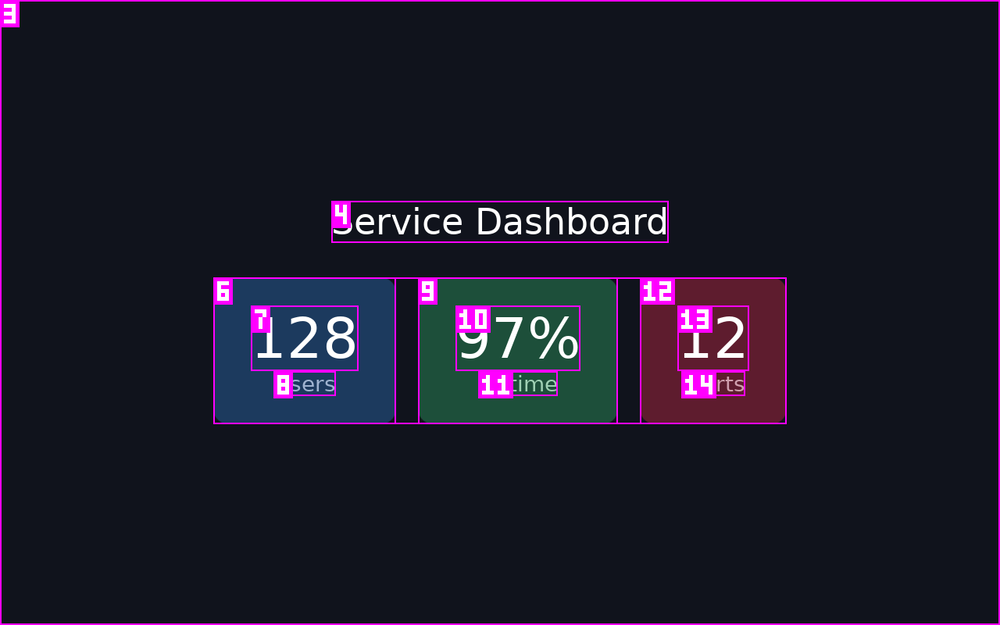
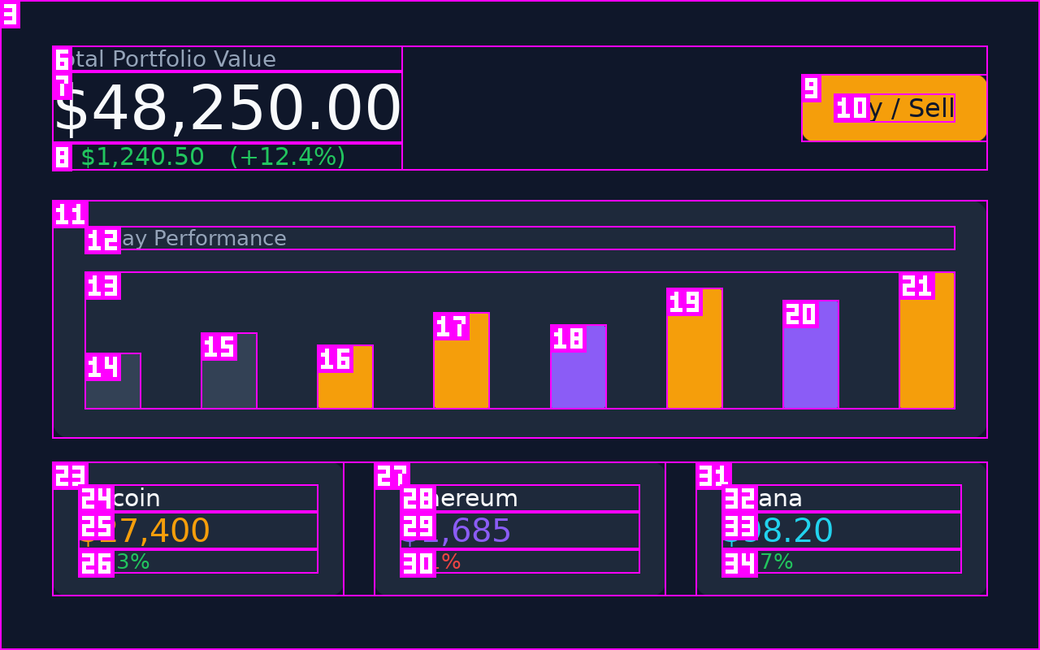
docs(readme): replace demo renders with 4 fancy, diverse showcase screens
The old hero (sign-in / dashboard / now-playing) was flat single-colour and
monotone. Regenerated the media from real renders designed with vibrant,
product-appropriate palettes (via the UI/UX Pro Max design skill) — within
what the DALi runtime actually renders (solid fills, corner radius, type,
shape-based data-viz; no photos/gradients/shadows):

- hero.gif now cycles four diverse screens: a fintech crypto dashboard (bar
  chart + bento), a fitness tracker (orange hero + progress + stat cards), a
  music player (vibrant equalizer + controls), and a light-mode sales
  analytics dashboard (KPIs + bar chart). Three dark + one light, for range.
- "What it does" static is now the crypto dashboard.
- The Set-of-Mark `--overlay` demo is regenerated on that dashboard (30+ boxed,
  numbered nodes incl. each chart bar) — a far richer image→tree showcase.
- Added the four as reproducible samples under samples/showcase/ (they ship in
  the package), and linked them from the hero caption. EN + KO captions updated.

Media stay out of the npm `files` allowlist (package is still ~99 kB).

diff --git a/samples/showcase/crypto.preview.dali.cpp b/samples/showcase/crypto.preview.dali.cpp
@@ -1,0 +1,85 @@
+// Crypto portfolio — fintech palette: gold #F59E0B, purple #8B5CF6, dark #0F172A
+FlexLayout root = FlexLayout::New();
+root.SetDirection(FlexDirection::COLUMN);
+root.SetRequestedWidth(MATCH_PARENT);
+root.SetRequestedHeight(MATCH_PARENT);
+root.SetBackgroundColor(UiColor(0x0F172A));
+root.SetPadding(Extents(64, 64, 56, 56));
+
+// ---- header ----
+FlexLayout header = FlexLayout::New();
+header.SetDirection(FlexDirection::ROW);
+header.SetJustifyContent(FlexJustify::SPACE_BETWEEN);
+header.SetAlignItems(FlexAlign::CENTER);
+header.SetRequestedWidth(MATCH_PARENT);
+header.SetMargin(Extents(0, 0, 0, 36));
+FlexLayout hl = FlexLayout::New();
+hl.SetDirection(FlexDirection::COLUMN);
+Label t1 = Label::New("Total Portfolio Value"); t1.SetFontSize(28); t1.SetTextColor(UiColor(0x94A3B8));
+Label t2 = Label::New("$48,250.00"); t2.SetFontSize(76); t2.SetTextColor(UiColor(0xF8FAFC));
+Label t3 = Label::New("+ $1,240.50   (+12.4%)"); t3.SetFontSize(30); t3.SetTextColor(UiColor(0x22C55E));
+hl.AddChildren({ t1, t2, t3 });
+FlexLayout cta = FlexLayout::New();
+cta.SetJustifyContent(FlexJustify::CENTER); cta.SetAlignItems(FlexAlign::CENTER);
+cta.SetBackgroundColor(UiColor(0xF59E0B)); cta.SetCornerRadius(18.0f);
+cta.SetPadding(Extents(40, 40, 24, 24));
+Label ctal = Label::New("Buy / Sell"); ctal.SetFontSize(32); ctal.SetTextColor(UiColor(0x0F172A));
+cta.AddChildren({ ctal });
+header.AddChildren({ hl, cta });
+
+// ---- chart card (bar chart) ----
+FlexLayout chart = FlexLayout::New();
+chart.SetDirection(FlexDirection::COLUMN);
+chart.SetBackgroundColor(UiColor(0x1E293B)); chart.SetCornerRadius(24.0f);
+chart.SetPadding(Extents(40, 40, 32, 36));
+chart.SetRequestedWidth(MATCH_PARENT);
+chart.SetMargin(Extents(0, 0, 0, 28));
+Label cl = Label::New("7-Day Performance"); cl.SetFontSize(26); cl.SetTextColor(UiColor(0x94A3B8));
+cl.SetMargin(Extents(0, 0, 0, 26));
+FlexLayout bars = FlexLayout::New();
+bars.SetDirection(FlexDirection::ROW);
+bars.SetAlignItems(FlexAlign::FLEX_END);
+bars.SetJustifyContent(FlexJustify::SPACE_BETWEEN);
+bars.SetRequestedWidth(MATCH_PARENT);
+bars.SetRequestedHeight(170.0f);
+View g1 = View::New(); g1.SetBackgroundColor(UiColor(0x334155)); g1.SetCornerRadius(8.0f); g1.SetRequestedWidth(70.0f); g1.SetRequestedHeight(70.0f);
+View g2 = View::New(); g2.SetBackgroundColor(UiColor(0x334155)); g2.SetCornerRadius(8.0f); g2.SetRequestedWidth(70.0f); g2.SetRequestedHeight(95.0f);
+View g3 = View::New(); g3.SetBackgroundColor(UiColor(0xF59E0B)); g3.SetCornerRadius(8.0f); g3.SetRequestedWidth(70.0f); g3.SetRequestedHeight(80.0f);
+View g4 = View::New(); g4.SetBackgroundColor(UiColor(0xF59E0B)); g4.SetCornerRadius(8.0f); g4.SetRequestedWidth(70.0f); g4.SetRequestedHeight(120.0f);
+View g5 = View::New(); g5.SetBackgroundColor(UiColor(0x8B5CF6)); g5.SetCornerRadius(8.0f); g5.SetRequestedWidth(70.0f); g5.SetRequestedHeight(105.0f);
+View g6 = View::New(); g6.SetBackgroundColor(UiColor(0xF59E0B)); g6.SetCornerRadius(8.0f); g6.SetRequestedWidth(70.0f); g6.SetRequestedHeight(150.0f);
+View g7 = View::New(); g7.SetBackgroundColor(UiColor(0x8B5CF6)); g7.SetCornerRadius(8.0f); g7.SetRequestedWidth(70.0f); g7.SetRequestedHeight(135.0f);
+View g8 = View::New(); g8.SetBackgroundColor(UiColor(0xF59E0B)); g8.SetCornerRadius(8.0f); g8.SetRequestedWidth(70.0f); g8.SetRequestedHeight(170.0f);
+bars.AddChildren({ g1, g2, g3, g4, g5, g6, g7, g8 });
+chart.AddChildren({ cl, bars });
+
+// ---- holdings (3 coin cards) ----
+FlexLayout coins = FlexLayout::New();
+coins.SetDirection(FlexDirection::ROW);
+coins.SetJustifyContent(FlexJustify::SPACE_BETWEEN);
+coins.SetRequestedWidth(MATCH_PARENT);
+FlexLayout c1 = FlexLayout::New();
+c1.SetDirection(FlexDirection::COLUMN); c1.SetBackgroundColor(UiColor(0x1E293B)); c1.SetCornerRadius(20.0f);
+c1.SetPadding(Extents(32, 32, 28, 28)); c1.SetRequestedWidth(360.0f); c1.SetMargin(Extents(0, 14, 0, 0));
+Label c1n = Label::New("Bitcoin"); c1n.SetFontSize(30); c1n.SetTextColor(UiColor(0xF8FAFC));
+Label c1p = Label::New("$27,400"); c1p.SetFontSize(40); c1p.SetTextColor(UiColor(0xF59E0B));
+Label c1c = Label::New("+2.3%"); c1c.SetFontSize(26); c1c.SetTextColor(UiColor(0x22C55E));
+c1.AddChildren({ c1n, c1p, c1c });
+FlexLayout c2 = FlexLayout::New();
+c2.SetDirection(FlexDirection::COLUMN); c2.SetBackgroundColor(UiColor(0x1E293B)); c2.SetCornerRadius(20.0f);
+c2.SetPadding(Extents(32, 32, 28, 28)); c2.SetRequestedWidth(360.0f); c2.SetMargin(Extents(14, 14, 0, 0));
+Label c2n = Label::New("Ethereum"); c2n.SetFontSize(30); c2n.SetTextColor(UiColor(0xF8FAFC));
+Label c2p = Label::New("$1,685"); c2p.SetFontSize(40); c2p.SetTextColor(UiColor(0x8B5CF6));
+Label c2c = Label::New("-1.1%"); c2c.SetFontSize(26); c2c.SetTextColor(UiColor(0xEF4444));
+c2.AddChildren({ c2n, c2p, c2c });
+FlexLayout c3 = FlexLayout::New();
+c3.SetDirection(FlexDirection::COLUMN); c3.SetBackgroundColor(UiColor(0x1E293B)); c3.SetCornerRadius(20.0f);
+c3.SetPadding(Extents(32, 32, 28, 28)); c3.SetRequestedWidth(360.0f); c3.SetMargin(Extents(14, 0, 0, 0));
+Label c3n = Label::New("Solana"); c3n.SetFontSize(30); c3n.SetTextColor(UiColor(0xF8FAFC));
+Label c3p = Label::New("$98.20"); c3p.SetFontSize(40); c3p.SetTextColor(UiColor(0x22D3EE));
+Label c3c = Label::New("+5.7%"); c3c.SetFontSize(26); c3c.SetTextColor(UiColor(0x22C55E));
+c3.AddChildren({ c3n, c3p, c3c });
+coins.AddChildren({ c1, c2, c3 });
+
+root.AddChildren({ header, chart, coins });
+return root;

diff --git a/samples/showcase/fitness.preview.dali.cpp b/samples/showcase/fitness.preview.dali.cpp
@@ -1,0 +1,62 @@
+FlexLayout root = FlexLayout::New();
+root.SetDirection(FlexDirection::COLUMN);
+root.SetRequestedWidth(MATCH_PARENT);
+root.SetRequestedHeight(MATCH_PARENT);
+root.SetBackgroundColor(UiColor(0x111827));
+root.SetPadding(Extents(64, 64, 56, 56));
+
+FlexLayout head = FlexLayout::New();
+head.SetDirection(FlexDirection::ROW); head.SetJustifyContent(FlexJustify::SPACE_BETWEEN);
+head.SetAlignItems(FlexAlign::FLEX_END); head.SetRequestedWidth(MATCH_PARENT); head.SetMargin(Extents(0,0,0,36));
+FlexLayout hc = FlexLayout::New(); hc.SetDirection(FlexDirection::COLUMN);
+Label h1 = Label::New("ACTIVITY"); h1.SetFontSize(26); h1.SetTextColor(UiColor(0xF97316));
+Label h2 = Label::New("Good morning, Alex"); h2.SetFontSize(48); h2.SetTextColor(UiColor(0xF8FAFC));
+hc.AddChildren({ h1, h2 });
+Label hd = Label::New("Tue, Jun 30"); hd.SetFontSize(28); hd.SetTextColor(UiColor(0x9CA3AF));
+head.AddChildren({ hc, hd });
+
+// hero: big steps + progress
+FlexLayout hero = FlexLayout::New();
+hero.SetDirection(FlexDirection::COLUMN); hero.SetBackgroundColor(UiColor(0xF97316));
+hero.SetCornerRadius(28.0f); hero.SetPadding(Extents(48, 48, 40, 44));
+hero.SetRequestedWidth(MATCH_PARENT); hero.SetMargin(Extents(0,0,0,28));
+Label hs1 = Label::New("STEPS TODAY"); hs1.SetFontSize(26); hs1.SetTextColor(UiColor(0x7C2D12));
+FlexLayout hr = FlexLayout::New(); hr.SetDirection(FlexDirection::ROW); hr.SetAlignItems(FlexAlign::FLEX_END);
+Label hs2 = Label::New("8,412"); hs2.SetFontSize(96); hs2.SetTextColor(UiColor(0xFFFFFF));
+Label hs3 = Label::New("  / 10,000  •  84%"); hs3.SetFontSize(34); hs3.SetTextColor(UiColor(0xFFEDD5));
+hr.AddChildren({ hs2, hs3 });
+View track = View::New(); track.SetBackgroundColor(UiColor(0xC2410C)); track.SetCornerRadius(10.0f);
+track.SetRequestedWidth(MATCH_PARENT); track.SetRequestedHeight(20.0f); track.SetMargin(Extents(0,0,20,0));
+View fill = View::New(); fill.SetBackgroundColor(UiColor(0xFFFFFF)); fill.SetCornerRadius(10.0f);
+fill.SetRequestedWidth(900.0f); fill.SetRequestedHeight(20.0f);
+track.AddChildren({ fill });
+hero.AddChildren({ hs1, hr, track });
+
+// 3 stat blocks
+FlexLayout row = FlexLayout::New(); row.SetDirection(FlexDirection::ROW);
+row.SetJustifyContent(FlexJustify::SPACE_BETWEEN); row.SetRequestedWidth(MATCH_PARENT);
+View s1 = View::New(); s1.SetBackgroundColor(UiColor(0x1F2937)); s1.SetCornerRadius(20.0f);
+s1.SetRequestedWidth(360.0f); s1.SetRequestedHeight(190.0f); s1.SetMargin(Extents(0,14,0,0));
+FlexLayout s1c = FlexLayout::New(); s1c.SetDirection(FlexDirection::COLUMN); s1c.SetPadding(Extents(34,34,30,30));
+Label s1a = Label::New("CALORIES"); s1a.SetFontSize(24); s1a.SetTextColor(UiColor(0x9CA3AF));
+Label s1b = Label::New("540"); s1b.SetFontSize(56); s1b.SetTextColor(UiColor(0xF97316));
+Label s1d = Label::New("kcal burned"); s1d.SetFontSize(24); s1d.SetTextColor(UiColor(0x6B7280));
+s1c.AddChildren({ s1a, s1b, s1d }); s1.AddChildren({ s1c });
+View s2 = View::New(); s2.SetBackgroundColor(UiColor(0x1F2937)); s2.SetCornerRadius(20.0f);
+s2.SetRequestedWidth(360.0f); s2.SetRequestedHeight(190.0f); s2.SetMargin(Extents(14,14,0,0));
+FlexLayout s2c = FlexLayout::New(); s2c.SetDirection(FlexDirection::COLUMN); s2c.SetPadding(Extents(34,34,30,30));
+Label s2a = Label::New("DISTANCE"); s2a.SetFontSize(24); s2a.SetTextColor(UiColor(0x9CA3AF));
+Label s2b = Label::New("5.2"); s2b.SetFontSize(56); s2b.SetTextColor(UiColor(0x38BDF8));
+Label s2d = Label::New("km walked"); s2d.SetFontSize(24); s2d.SetTextColor(UiColor(0x6B7280));
+s2c.AddChildren({ s2a, s2b, s2d }); s2.AddChildren({ s2c });
+View s3 = View::New(); s3.SetBackgroundColor(UiColor(0x1F2937)); s3.SetCornerRadius(20.0f);
+s3.SetRequestedWidth(360.0f); s3.SetRequestedHeight(190.0f); s3.SetMargin(Extents(14,0,0,0));
+FlexLayout s3c = FlexLayout::New(); s3c.SetDirection(FlexDirection::COLUMN); s3c.SetPadding(Extents(34,34,30,30));
+Label s3a = Label::New("ACTIVE"); s3a.SetFontSize(24); s3a.SetTextColor(UiColor(0x9CA3AF));
+Label s3b = Label::New("47"); s3b.SetFontSize(56); s3b.SetTextColor(UiColor(0x34D399));
+Label s3d = Label::New("minutes"); s3d.SetFontSize(24); s3d.SetTextColor(UiColor(0x6B7280));
+s3c.AddChildren({ s3a, s3b, s3d }); s3.AddChildren({ s3c });
+row.AddChildren({ s1, s2, s3 });
+
+root.AddChildren({ head, hero, row });
+return root;

diff --git a/samples/showcase/analytics.preview.dali.cpp b/samples/showcase/analytics.preview.dali.cpp
@@ -1,0 +1,61 @@
+// Light SaaS analytics — slate/indigo, white cards on light bg
+FlexLayout root = FlexLayout::New();
+root.SetDirection(FlexDirection::COLUMN);
+root.SetRequestedWidth(MATCH_PARENT); root.SetRequestedHeight(MATCH_PARENT);
+root.SetBackgroundColor(UiColor(0xEEF2F7));
+root.SetPadding(Extents(64, 64, 56, 56));
+
+FlexLayout head = FlexLayout::New(); head.SetDirection(FlexDirection::ROW);
+head.SetJustifyContent(FlexJustify::SPACE_BETWEEN); head.SetAlignItems(FlexAlign::CENTER);
+head.SetRequestedWidth(MATCH_PARENT); head.SetMargin(Extents(0,0,0,36));
+FlexLayout hc = FlexLayout::New(); hc.SetDirection(FlexDirection::COLUMN);
+Label h0 = Label::New("SALES OVERVIEW"); h0.SetFontSize(24); h0.SetTextColor(UiColor(0x6366F1));
+Label h1 = Label::New("Good afternoon, Sam"); h1.SetFontSize(48); h1.SetTextColor(UiColor(0x0F172A));
+hc.AddChildren({ h0, h1 });
+FlexLayout pill = FlexLayout::New(); pill.SetJustifyContent(FlexJustify::CENTER); pill.SetAlignItems(FlexAlign::CENTER);
+pill.SetBackgroundColor(UiColor(0xFFFFFF)); pill.SetCornerRadius(14.0f); pill.SetPadding(Extents(32,32,20,20));
+Label pl = Label::New("This Month  ▾"); pl.SetFontSize(28); pl.SetTextColor(UiColor(0x334155));
+pill.AddChildren({ pl });
+head.AddChildren({ hc, pill });
+
+// KPI row
+FlexLayout kpis = FlexLayout::New(); kpis.SetDirection(FlexDirection::ROW);
+kpis.SetJustifyContent(FlexJustify::SPACE_BETWEEN); kpis.SetRequestedWidth(MATCH_PARENT); kpis.SetMargin(Extents(0,0,0,28));
+FlexLayout k1 = FlexLayout::New(); k1.SetDirection(FlexDirection::COLUMN); k1.SetBackgroundColor(UiColor(0xFFFFFF));
+k1.SetCornerRadius(20.0f); k1.SetPadding(Extents(36,36,30,30)); k1.SetRequestedWidth(360.0f); k1.SetMargin(Extents(0,12,0,0));
+Label k1a=Label::New("REVENUE"); k1a.SetFontSize(23); k1a.SetTextColor(UiColor(0x64748B));
+Label k1b=Label::New("$84,250"); k1b.SetFontSize(54); k1b.SetTextColor(UiColor(0x0F172A));
+Label k1c=Label::New("+18.2%  vs last month"); k1c.SetFontSize(23); k1c.SetTextColor(UiColor(0x16A34A));
+k1.AddChildren({ k1a, k1b, k1c });
+FlexLayout k2 = FlexLayout::New(); k2.SetDirection(FlexDirection::COLUMN); k2.SetBackgroundColor(UiColor(0xFFFFFF));
+k2.SetCornerRadius(20.0f); k2.SetPadding(Extents(36,36,30,30)); k2.SetRequestedWidth(360.0f); k2.SetMargin(Extents(12,12,0,0));
+Label k2a=Label::New("ORDERS"); k2a.SetFontSize(23); k2a.SetTextColor(UiColor(0x64748B));
+Label k2b=Label::New("1,284"); k2b.SetFontSize(54); k2b.SetTextColor(UiColor(0x0F172A));
+Label k2c=Label::New("+6.4%  vs last month"); k2c.SetFontSize(23); k2c.SetTextColor(UiColor(0x16A34A));
+k2.AddChildren({ k2a, k2b, k2c });
+FlexLayout k3 = FlexLayout::New(); k3.SetDirection(FlexDirection::COLUMN); k3.SetBackgroundColor(UiColor(0xFFFFFF));
+k3.SetCornerRadius(20.0f); k3.SetPadding(Extents(36,36,30,30)); k3.SetRequestedWidth(360.0f); k3.SetMargin(Extents(12,0,0,0));
+Label k3a=Label::New("CONVERSION"); k3a.SetFontSize(23); k3a.SetTextColor(UiColor(0x64748B));
+Label k3b=Label::New("3.8%"); k3b.SetFontSize(54); k3b.SetTextColor(UiColor(0x0F172A));
+Label k3c=Label::New("-1.1%  vs last month"); k3c.SetFontSize(23); k3c.SetTextColor(UiColor(0xDC2626));
+k3.AddChildren({ k3a, k3b, k3c });
+kpis.AddChildren({ k1, k2, k3 });
+
+// chart card
+FlexLayout card = FlexLayout::New(); card.SetDirection(FlexDirection::COLUMN); card.SetBackgroundColor(UiColor(0xFFFFFF));
+card.SetCornerRadius(24.0f); card.SetPadding(Extents(44,44,36,38)); card.SetRequestedWidth(MATCH_PARENT);
+Label cl = Label::New("Revenue — last 7 months"); cl.SetFontSize(28); cl.SetTextColor(UiColor(0x0F172A)); cl.SetMargin(Extents(0,0,0,28));
+FlexLayout bars = FlexLayout::New(); bars.SetDirection(FlexDirection::ROW); bars.SetAlignItems(FlexAlign::FLEX_END);
+bars.SetJustifyContent(FlexJustify::SPACE_BETWEEN); bars.SetRequestedWidth(MATCH_PARENT); bars.SetRequestedHeight(150.0f);
+View b1=View::New(); b1.SetBackgroundColor(UiColor(0xC7D2FE)); b1.SetCornerRadius(8.0f); b1.SetRequestedWidth(110.0f); b1.SetRequestedHeight(70.0f);
+View b2=View::New(); b2.SetBackgroundColor(UiColor(0xC7D2FE)); b2.SetCornerRadius(8.0f); b2.SetRequestedWidth(110.0f); b2.SetRequestedHeight(95.0f);
+View b3=View::New(); b3.SetBackgroundColor(UiColor(0xC7D2FE)); b3.SetCornerRadius(8.0f); b3.SetRequestedWidth(110.0f); b3.SetRequestedHeight(85.0f);
+View b4=View::New(); b4.SetBackgroundColor(UiColor(0xA5B4FC)); b4.SetCornerRadius(8.0f); b4.SetRequestedWidth(110.0f); b4.SetRequestedHeight(118.0f);
+View b5=View::New(); b5.SetBackgroundColor(UiColor(0xA5B4FC)); b5.SetCornerRadius(8.0f); b5.SetRequestedWidth(110.0f); b5.SetRequestedHeight(105.0f);
+View b6=View::New(); b6.SetBackgroundColor(UiColor(0x6366F1)); b6.SetCornerRadius(8.0f); b6.SetRequestedWidth(110.0f); b6.SetRequestedHeight(150.0f);
+View b7=View::New(); b7.SetBackgroundColor(UiColor(0x818CF8)); b7.SetCornerRadius(8.0f); b7.SetRequestedWidth(110.0f); b7.SetRequestedHeight(132.0f);
+bars.AddChildren({ b1,b2,b3,b4,b5,b6,b7 });
+card.AddChildren({ cl, bars });
+
+root.AddChildren({ head, kpis, card });
+return root;

diff --git a/samples/showcase/music.preview.dali.cpp b/samples/showcase/music.preview.dali.cpp
@@ -1,0 +1,42 @@
+FlexLayout root = FlexLayout::New();
+root.SetDirection(FlexDirection::COLUMN); root.SetAlignItems(FlexAlign::CENTER);
+root.SetJustifyContent(FlexJustify::CENTER);
+root.SetRequestedWidth(MATCH_PARENT); root.SetRequestedHeight(MATCH_PARENT);
+root.SetBackgroundColor(UiColor(0x0F0F23)); root.SetPadding(Extents(80, 80, 60, 60));
+
+// equalizer bars (vibrant)
+FlexLayout eq = FlexLayout::New(); eq.SetDirection(FlexDirection::ROW);
+eq.SetAlignItems(FlexAlign::FLEX_END); eq.SetJustifyContent(FlexJustify::CENTER);
+eq.SetRequestedWidth(MATCH_PARENT); eq.SetRequestedHeight(220.0f); eq.SetMargin(Extents(0,0,0,44));
+View e1=View::New(); e1.SetBackgroundColor(UiColor(0x6366F1)); e1.SetCornerRadius(7.0f); e1.SetRequestedWidth(26.0f); e1.SetRequestedHeight(80.0f); e1.SetMargin(Extents(7,7,0,0));
+View e2=View::New(); e2.SetBackgroundColor(UiColor(0x818CF8)); e2.SetCornerRadius(7.0f); e2.SetRequestedWidth(26.0f); e2.SetRequestedHeight(150.0f); e2.SetMargin(Extents(7,7,0,0));
+View e3=View::New(); e3.SetBackgroundColor(UiColor(0xA855F7)); e3.SetCornerRadius(7.0f); e3.SetRequestedWidth(26.0f); e3.SetRequestedHeight(110.0f); e3.SetMargin(Extents(7,7,0,0));
+View e4=View::New(); e4.SetBackgroundColor(UiColor(0xEC4899)); e4.SetCornerRadius(7.0f); e4.SetRequestedWidth(26.0f); e4.SetRequestedHeight(200.0f); e4.SetMargin(Extents(7,7,0,0));
+View e5=View::New(); e5.SetBackgroundColor(UiColor(0xEC4899)); e5.SetCornerRadius(7.0f); e5.SetRequestedWidth(26.0f); e5.SetRequestedHeight(170.0f); e5.SetMargin(Extents(7,7,0,0));
+View e6=View::New(); e6.SetBackgroundColor(UiColor(0xA855F7)); e6.SetCornerRadius(7.0f); e6.SetRequestedWidth(26.0f); e6.SetRequestedHeight(130.0f); e6.SetMargin(Extents(7,7,0,0));
+View e7=View::New(); e7.SetBackgroundColor(UiColor(0x818CF8)); e7.SetCornerRadius(7.0f); e7.SetRequestedWidth(26.0f); e7.SetRequestedHeight(190.0f); e7.SetMargin(Extents(7,7,0,0));
+View e8=View::New(); e8.SetBackgroundColor(UiColor(0x6366F1)); e8.SetCornerRadius(7.0f); e8.SetRequestedWidth(26.0f); e8.SetRequestedHeight(95.0f); e8.SetMargin(Extents(7,7,0,0));
+View e9=View::New(); e9.SetBackgroundColor(UiColor(0xA855F7)); e9.SetCornerRadius(7.0f); e9.SetRequestedWidth(26.0f); e9.SetRequestedHeight(155.0f); e9.SetMargin(Extents(7,7,0,0));
+eq.AddChildren({ e1,e2,e3,e4,e5,e6,e7,e8,e9 });
+
+Label now = Label::New("NOW PLAYING"); now.SetFontSize(24); now.SetTextColor(UiColor(0x818CF8)); now.SetMargin(Extents(0,0,0,12));
+Label song = Label::New("Midnight City"); song.SetFontSize(72); song.SetTextColor(UiColor(0xF8FAFC));
+Label artist = Label::New("M83  •  Hurry Up, We're Dreaming"); artist.SetFontSize(30); artist.SetTextColor(UiColor(0x9CA3AF)); artist.SetMargin(Extents(0,0,8,0));
+
+View bar = View::New(); bar.SetBackgroundColor(UiColor(0x27273B)); bar.SetCornerRadius(6.0f);
+bar.SetRequestedWidth(760.0f); bar.SetRequestedHeight(12.0f); bar.SetMargin(Extents(0,0,36,0));
+View prog = View::New(); prog.SetBackgroundColor(UiColor(0xEC4899)); prog.SetCornerRadius(6.0f);
+prog.SetRequestedWidth(470.0f); prog.SetRequestedHeight(12.0f);
+bar.AddChildren({ prog });
+
+FlexLayout ctr = FlexLayout::New(); ctr.SetDirection(FlexDirection::ROW); ctr.SetAlignItems(FlexAlign::CENTER);
+View pv = View::New(); pv.SetBackgroundColor(UiColor(0x27273B)); pv.SetCornerRadius(36.0f); pv.SetRequestedWidth(72.0f); pv.SetRequestedHeight(72.0f); pv.SetMargin(Extents(0,28,0,0));
+FlexLayout play = FlexLayout::New(); play.SetJustifyContent(FlexJustify::CENTER); play.SetAlignItems(FlexAlign::CENTER);
+play.SetBackgroundColor(UiColor(0xEC4899)); play.SetCornerRadius(56.0f); play.SetRequestedWidth(112.0f); play.SetRequestedHeight(112.0f); play.SetMargin(Extents(28,28,0,0));
+Label pl = Label::New("II"); pl.SetFontSize(44); pl.SetTextColor(UiColor(0xFFFFFF));
+play.AddChildren({ pl });
+View nx = View::New(); nx.SetBackgroundColor(UiColor(0x27273B)); nx.SetCornerRadius(36.0f); nx.SetRequestedWidth(72.0f); nx.SetRequestedHeight(72.0f); nx.SetMargin(Extents(28,0,0,0));
+ctr.AddChildren({ pv, play, nx });
+
+root.AddChildren({ eq, now, song, artist, bar, ctr });
+return root;

diff --git a/README.md b/README.md
@@ -10,8 +10,8 @@
 ![Runtime: Docker](https://img.shields.io/badge/runtime-Docker-2496ed.svg)
 
 <p align="center">
-  <img src="docs/media/hero.gif" alt="DALi UI rendered from C++ — a dashboard, a sign-in card, and a now-playing card" width="900">
-  <br><sub>Each frame is a real render the CLI produced from a small C++ snippet — no device, no emulator.</sub>
+  <img src="docs/media/hero.gif" alt="DALi UI rendered from C++ — a crypto dashboard, a fitness tracker, a music player, and a sales analytics dashboard" width="900">
+  <br><sub>Four real renders the CLI produced from small C++ snippets — no device, no emulator. Each one is a reproducible <a href="samples/showcase">sample</a>.</sub>
 </p>
 
 ## What it does
@@ -19,7 +19,7 @@
 Write a snippet of DALi (Tizen's Dynamic Animation Library) UI C++, and this CLI renders it headlessly inside a Docker container, then hands you back two things: a real **PNG screenshot** and a deterministic, machine-readable **UI scene tree** (every node's id, type, role, on-screen bounds, source line, and properties). You can then **verify** that render against a target image and/or tree and branch on the exit code. `stdout` is pure JSON, so it drops straight into an agent's parser.
 
 <p align="center">
-  <img src="docs/media/dashboard.png" alt="A dashboard rendered by the CLI from a DALi C++ snippet" width="760">
+  <img src="docs/media/dashboard.png" alt="A fintech portfolio dashboard rendered by the CLI from a DALi C++ snippet" width="820">
 </p>
 
 ## Why
@@ -199,8 +199,8 @@ dali-ui-preview-cli samples/hello-dali.preview.dali.cpp --overlay overlay.png
 You get `overlay.png` with boxes labelled `#1 Layer`, `#3 FlexLayoutImpl`, `#4 "Hello, Dali!"`, `#5` subtitle, etc. The JSON tree is still printed to stdout.
 
 <p align="center">
-  <img src="docs/media/overlay.png" alt="Set-of-Mark overlay — each node boxed and numbered to match its mark in the JSON tree" width="640">
-  <br><sub>Every node boxed + numbered so an agent can say "make box #7 bigger" and map it straight to the tree.</sub>
+  <img src="docs/media/overlay.png" alt="Set-of-Mark overlay on the crypto dashboard — every node boxed and numbered to match its mark in the JSON tree" width="760">
+  <br><sub>Every node boxed + numbered so an agent can point at one — "recolor #19", "enlarge #7" — and map it straight to the tree.</sub>
 </p>
 
 ### Locate a node — `--at` / `--node`

diff --git a/README.ko.md b/README.ko.md
@@ -10,8 +10,8 @@
 ![Runtime: Docker](https://img.shields.io/badge/runtime-Docker-2496ed.svg)
 
 <p align="center">
-  <img src="docs/media/hero.gif" alt="C++로부터 렌더된 DALi UI — 대시보드, 사인인 카드, 재생 카드" width="900">
-  <br><sub>각 프레임은 작은 C++ 스니펫으로 CLI가 만든 실제 렌더입니다 — 기기도 에뮬레이터도 없이.</sub>
+  <img src="docs/media/hero.gif" alt="C++로부터 렌더된 DALi UI — 크립토 대시보드, 피트니스 트래커, 뮤직 플레이어, 매출 분석 대시보드" width="900">
+  <br><sub>작은 C++ 스니펫으로 CLI가 만든 4개의 실제 렌더 — 기기도 에뮬레이터도 없이. 각각 재현 가능한 <a href="samples/showcase">샘플</a>입니다.</sub>
 </p>
 
 ## 무엇을 하나